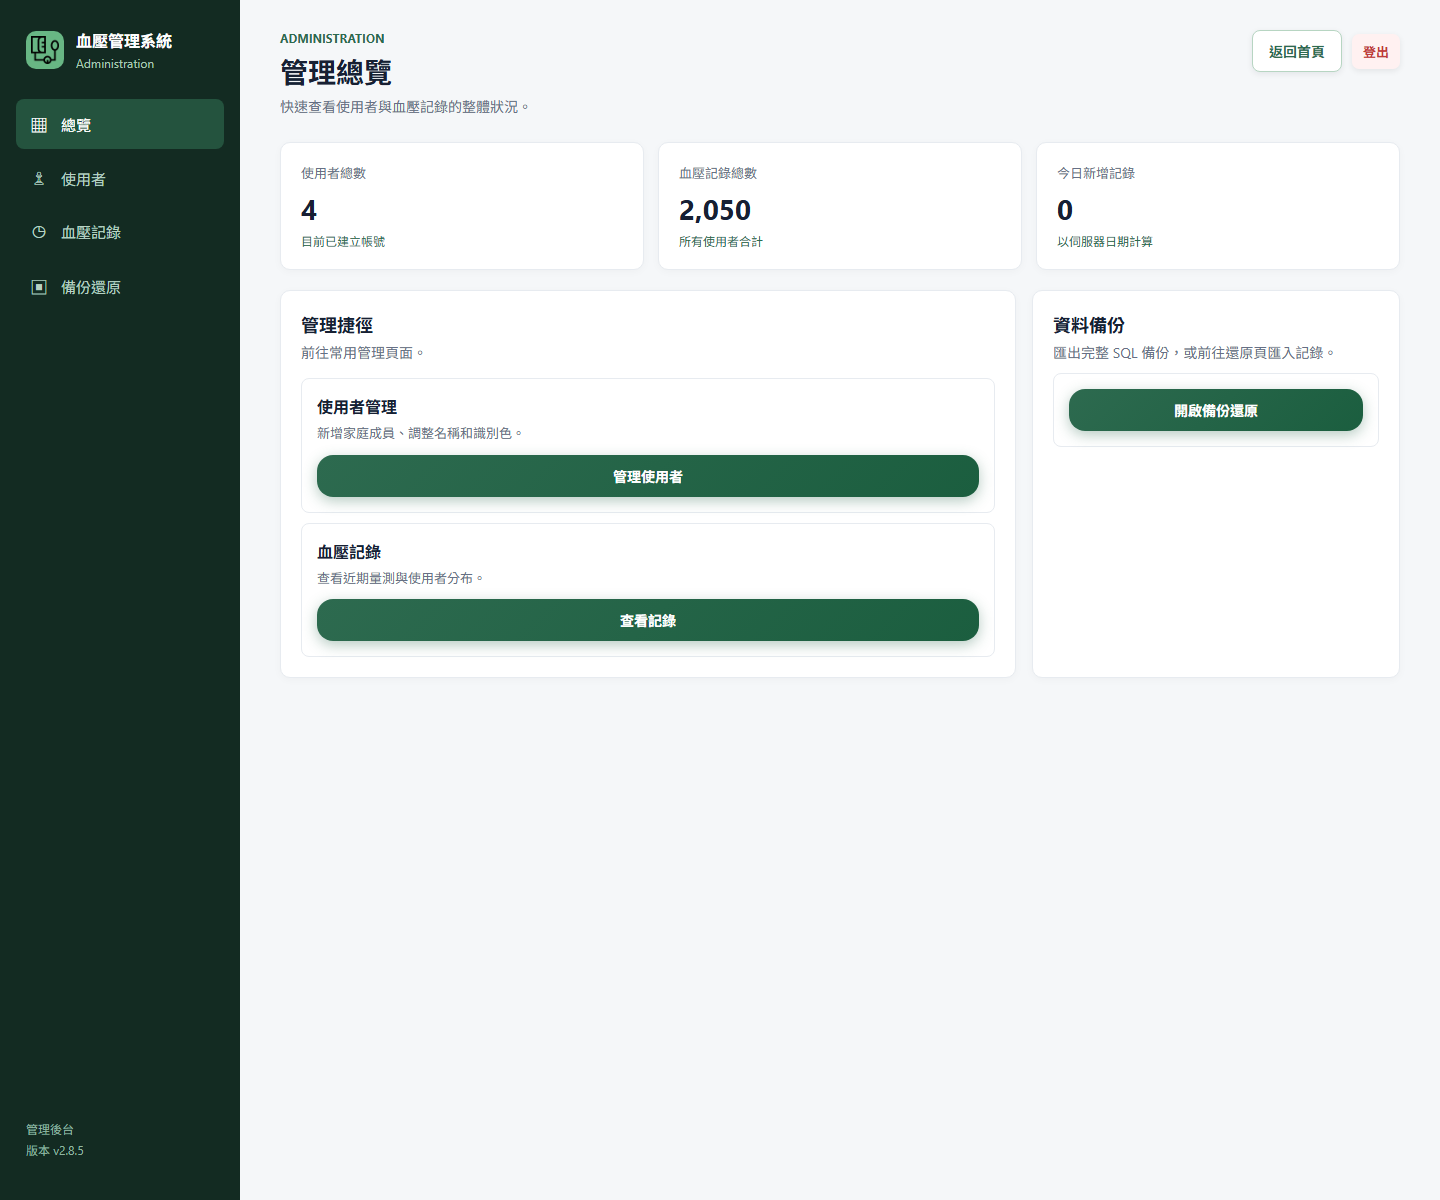
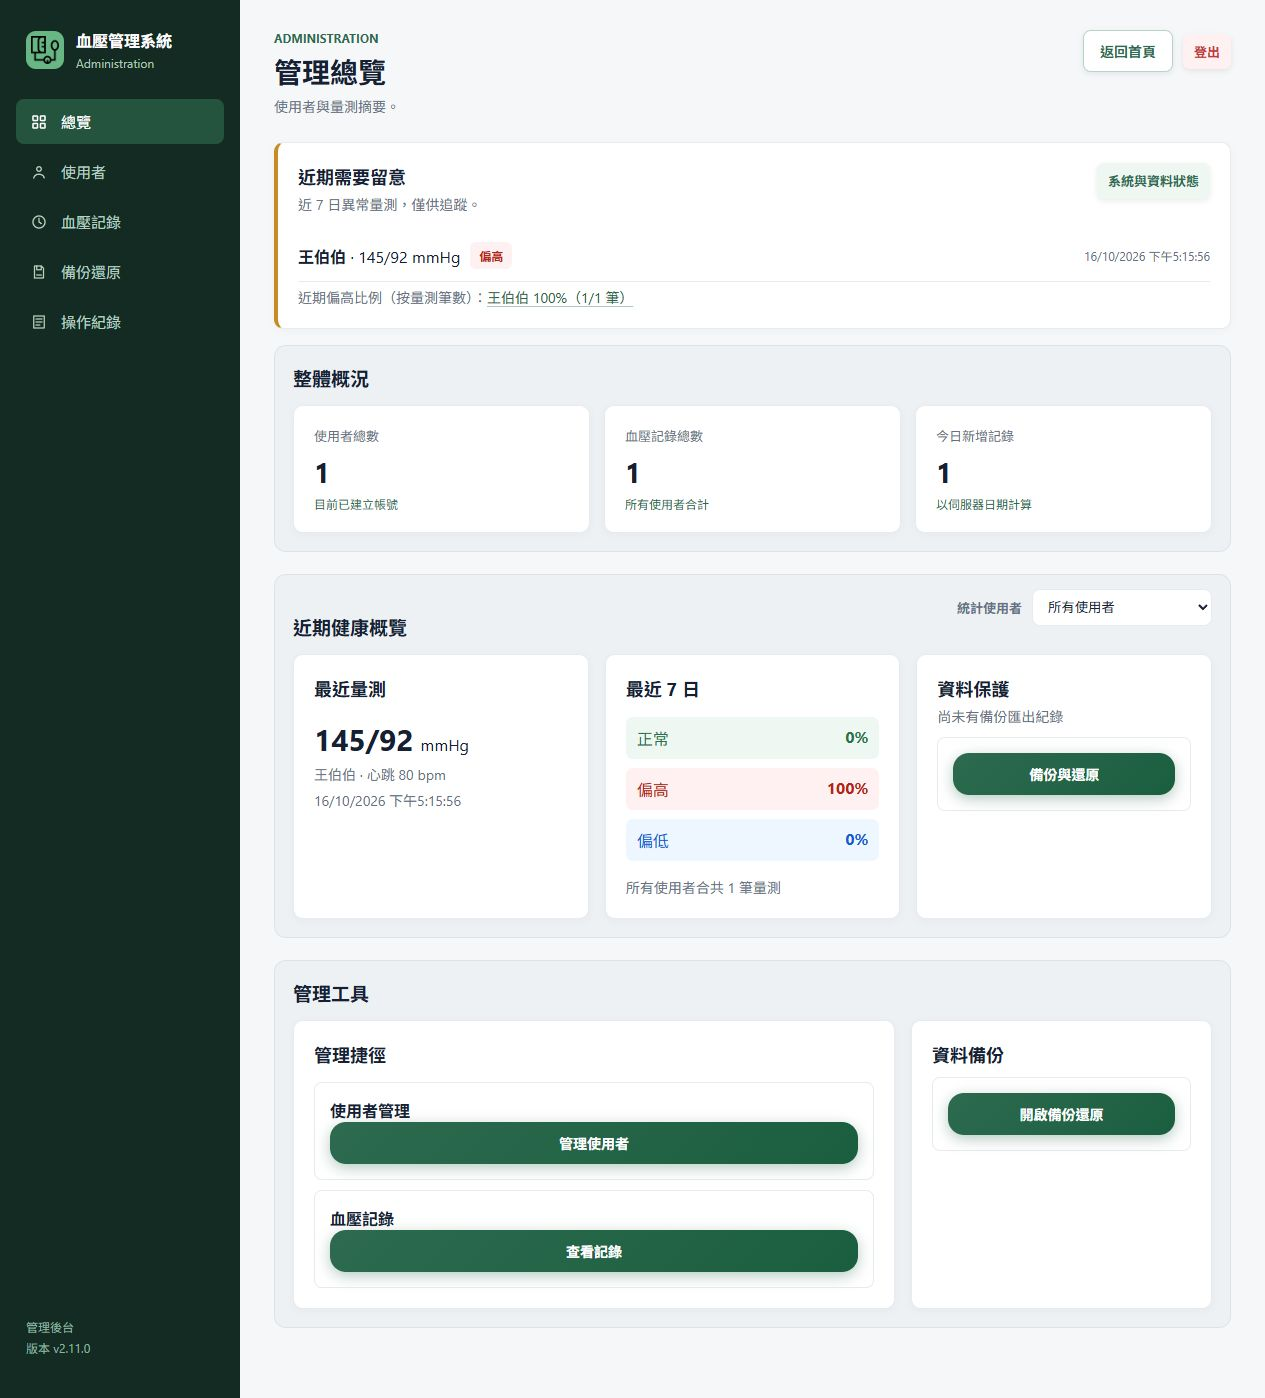
docs(readme): 更新 2.11.0 功能、升級指南與後台截圖

diff --git a/README.md b/README.md
@@ -18,6 +18,7 @@
 - [畫面截圖](#畫面截圖)
 - [既有資料庫升級](#既有資料庫升級)
 - [本機開發](#本機開發)
+- [CI/CD](#cicd)
 - [版本紀錄](#版本紀錄)
 
 ## 功能特色
@@ -28,14 +29,15 @@
 - **趨勢與健康摘要**：統計收縮壓、舒張壓與心跳變化，圖表支援放大檢視。
 - **清晰的血壓分級**：以綠、藍、紅色區分正常、低血壓及高血壓。
 - **匯出與備份**：支援 Excel 匯出，以及附 SHA-256 checksum 的版本化 JSON 備份。
-- **管理後台**：管理使用者與記錄、進階篩選、近期統計及系統狀態。
+- **管理後台**：記錄編輯、批次刪除預覽、操作稽核、近期警示與手機卡片。
+- **自動資料庫升級**：啟動時檢查 migration，僅套用未完成項目。
 - **PWA 與 Docker**：可安裝至手機主畫面，並支援 GHCR image、Docker Compose 及外部 MariaDB。
 
 ## 快速開始
 
 ### Docker（推薦）
 
-先準備可連線的 MariaDB 資料庫，並匯入 [mariadb/init.sql](mariadb/init.sql)。接著建立 <code>compose.yml</code>：
+首次安裝：建立 MariaDB 資料庫，匯入 [mariadb/init.sql](mariadb/init.sql)，再建立 <code>compose.yml</code>。資料庫帳號須具備正常讀寫及 `CREATE`、`ALTER`、`INDEX`、`REFERENCES` 權限，供啟動時升級使用。
 
 ~~~yaml
 services:
@@ -104,41 +106,41 @@ Production 環境亦必須提供 <code>DB_HOST</code>、<code>DB_USER</code>、<
 
 ## 管理後台與備份
 
-管理後台位於 <code>/admin</code>，登入後可：
+登入 `/admin` 後可使用：
 
-- 管理使用者及血壓記錄。
-- 依使用者、日期及血壓條件篩選記錄。
-- 以串流方式匯出 CSV，每次最多 10,000 筆。
-- 查看以伺服器日期計算的今日記錄與指定使用者最近 7 日統計。
-- 下載 JSON 或舊版 SQL 備份。
-- 預覽 JSON 匯入結果，再以資料庫交易寫入。
-
-JSON 是目前建議的備份格式，檔案包含格式版本與 SHA-256 checksum。匯入時會先顯示有效、略過及總筆數，確認後才寫入資料庫。
-
-### 新版管理功能（2.11.0）
-
-- 記錄篩選由伺服器統一處理；提供今天、最近 7／30 日及本月快捷範圍，匯出沿用目前條件。
-- 記錄支援單筆編輯、單筆刪除與本頁批次刪除（最多 100 筆）；編輯／刪除須填寫原因。編輯會檢查畫面資料是否已被其他操作修改。
-- 總覽列出近期偏高／偏低記錄及超過 7 日未量測的使用者，可直接前往記錄頁。
-- `/admin/activity` 提供操作紀錄、資料完整性檢查及最近 10 次備份匯出紀錄。資料變更與成功稽核在同一交易內完成，失敗時一起回復；失敗稽核若因資料庫不可用而無法保存，會記錄至伺服器日誌。
-- 稽核內容包含修改前後資料、刪除資料及原因，僅管理員可見。其用途是追蹤操作，並非介面上的垃圾桶／復原功能。JSON 備份只包含使用者與量測資料，不包含稽核或備份歷史；這些歷史須以資料庫備份保存。
-- 備份紀錄代表伺服器已產生匯出，不保證用戶端已完成下載或保存。SHA-256 checksum 用於檢查檔案內容一致性，不是來源簽章。
-
-JSON 還原提供兩種模式：
-
-| 模式 | 使用者與記錄處理 |
+| 頁面 | 功能 |
 | --- | --- |
-| 完整還原 | 依完全相同的姓名對應現有帳號，缺少者新增；不使用來源 ID 覆寫現有帳號。若目的資料庫有重複姓名，會拒絕曖昧對應。請在預覽中確認同名者確為同一人。 |
-| 匯入至指定使用者 | 備份內所有有效記錄都歸入選定帳號，來源使用者歸屬不保留。 |
+| 總覽 | 今日／近 7 日統計、異常量測、未量測提醒 |
+| 使用者 | 搜尋、新增、編輯姓名與識別色、刪除 |
+| 血壓記錄 | 條件篩選、日期快捷、排序、單筆編輯／刪除、批次刪除預覽 |
+| 備份還原 | JSON 備份、使用者對應預覽、重複資料略過、舊版 SQL 下載 |
+| 操作紀錄 | 修改前後資料、操作原因、備份歷史、資料品質與外部備份回報 |
 
-兩種模式皆保留現有資料，略過同使用者、同秒量測時間、相同血壓與心跳的記錄。預覽顯示新增、無效與重複筆數及使用者對應；確認時會重新檢查，結果可能因其他操作而改變。單檔上限 5 MB、5000 筆記錄、1000 位使用者；較大的 JSON 匯出檔請改用資料庫備份工具還原，勿直接編輯含 checksum 的檔案。SQL 下載僅作舊版工具相容，建議使用 JSON 流程。
+記錄編輯／刪除須填寫原因；批次刪除限本頁最多 100 筆，先核對明細，若確認時資料已變更則拒絕操作。篩選、分頁與 CSV 匯出使用相同條件，CSV 每次最多 10,000 筆。
+
+### JSON 備份與還原
+
+| 模式 | 處理方式 |
+| --- | --- |
+| 完整還原 | 完全同名帳號對應現有使用者，缺少者新增。請核對同名者是否為同一人；目的資料庫有重複姓名時拒絕還原。 |
+| 匯入至單一使用者 | 所有有效記錄歸入指定帳號，不保留原使用者歸屬。 |
+
+- 保留現有資料，略過使用者、量測時間（同秒）、血壓與心跳皆相同的記錄。
+- 單檔最多 5 MB、5000 筆記錄、1000 位使用者；較大資料請用資料庫備份工具還原。
+- SHA-256 checksum 檢查內容一致性，不代表來源可信；請勿直接修改備份檔案。
+- JSON 只包含使用者及量測資料；稽核與備份歷史須另以資料庫備份保存。
+- 匯出紀錄不代表檔案已下載保存；刪除沒有介面復原功能。
+
+### 外部資料庫備份
+
+在操作紀錄頁登記來源、完成時間、結果、檔案識別、選填 checksum 與備註。成功須有檔案或工作識別，失敗須有原因。這是管理員人工回報，不會執行外部備份或驗證可還原性；未回報時顯示狀態未知。
 
 ### 部署安全建議
 
 - 使用 HTTPS reverse proxy 提供外部存取。
 - 不要直接將應用程式的 <code>3000</code> port 暴露至公網。
 - 定期備份資料庫或下載 JSON 備份。
-- Session cookie 使用 <code>HttpOnly</code> 與 <code>SameSite=Lax</code>；production 模式會加上 <code>Secure</code>。
+- Session cookie 使用 <code>HttpOnly</code> 與 <code>SameSite=Lax</code>；HTTPS 請求會加上 <code>Secure</code>。
 
 ## 健康檢查
 
@@ -164,6 +166,13 @@ JSON 還原提供兩種模式：
 | ![統計頁](images/stats.png) | ![管理後台](images/admin.png) |
 
 <details>
+<summary>備份還原（2.11.0，示範資料）</summary>
+
+![備份還原](images/admin-backup.png)
+
+</details>
+
+<details>
 <summary>管理員登入頁</summary>
 
 ![管理員登入頁](images/admin-login.png)
@@ -172,35 +181,33 @@ JSON 還原提供兩種模式：
 
 ## 既有資料庫升級
 
-本版本在 `npm start`／Docker 啟動時會自動檢查並依檔名順序執行 `mariadb/migration-NNN-*.sql`，完成後才開放 HTTP 服務。資料庫須已存在，首次安裝仍先匯入 `mariadb/init.sql`。
+**2.11.0 起自動升級，不必逐個手動匯入 migration。**
 
-- `schema_migrations` 記錄已完成檔案、SHA-256 checksum 與時間；重啟只執行尚未完成的項目。
-- 使用資料庫鎖避免多個服務同時升級，最多等待 30 秒，取不到鎖會停止啟動，可稍後重啟。
-- 舊版 001／002 會先檢查欄位、外鍵與索引，只補缺少結構，避免重複新增預設使用者或索引。如果既有量測沒有對應使用者，會停止並要求修正歸屬，不會自動刪除資料。已手動套用的 003／004 使用 `CREATE TABLE IF NOT EXISTS`，可安全納入歷史。
-- 應用程式的資料庫帳號須有建立資料表與修改結構權限（`CREATE`、`ALTER`、`INDEX`），以及正常讀寫權限。不要使用 root 作為正式應用程式帳號。
-- 已執行的 migration 檔案不可再修改或重新命名；後續變更請新增遞增編號，例如 `migration-005-example.sql`。檔案須可安全重試；一般 SQL 支援字串／註解內分號，不支援 `DELIMITER` 或程序／trigger 腳本。
-- MariaDB DDL 可能自動提交，升級失敗時不宣稱已回復；不記錄完成、不開放服務，修正問題後再重啟。更新前仍須備份並暫停其他舊版服務寫入。
-
-需要預先手動套用時，也可執行以下 SQL：
+1. 備份資料庫並停止舊服務寫入。
+2. 將 Compose 的 image 改為 `ghcr.io/shamough1792/blood_pressure_tracker:2.11.0`。
+3. 拉取並啟動新版：
 
 ~~~bash
-mysql -h <DB_HOST> -u <DB_USER> -p <DB_NAME> < mariadb/migration-003-admin-management.sql
-mysql -h <DB_HOST> -u <DB_USER> -p <DB_NAME> < mariadb/migration-004-database-backup-reports.sql
+docker compose pull
+docker compose up -d
+docker compose logs -f app
 ~~~
 
-新安裝的 `mariadb/init.sql` 已包含所需資料表。若需回復程式版本，可保留新增資料表，舊版不會使用它們。
+看到「資料庫升級檢查完成」後才會開放 HTTP 服務。從原始碼啟動的 `npm start` 亦會執行相同檢查。
 
-批次刪除會先向伺服器取得所選記錄的使用者、時間、血壓及心跳明細，確認時再次核對資料指紋；若記錄已變更則拒絕刪除，須重新預覽。手機卡片的編輯／刪除按鈕位於右上角，桌面量測時間欄提供排序連結與對應的 `aria-sort`。
+- 帳號需有讀寫、`CREATE`、`ALTER`、`INDEX`、`REFERENCES` 權限；不要以 root 執行正式服務。
+- 已手動套用的 003／004 可安全納入升級歷史。舊版 001／002 會檢查並補齊欄位、外鍵及索引。
+- 多個服務共用升級鎖，最多等候 30 秒；逾時可稍後重啟。
+- 升級失敗會停止啟動，請依日誌修正權限或資料歸屬。DDL 可能已部分提交，不保證自動回復。
 
-系統狀態頁另提供「外部資料庫備份狀態」及管理員回報表單，可登記備份來源、工作完成時間、成功／失敗、檔案或工作識別、選填 SHA-256 及備註。成功結果須有檔案或工作識別，失敗結果須有原因；會同時保存回報者與登記時間，分別顯示最近工作結果及最近成功時間。這是人工回報功能，不會執行外部備份、查驗外部檔案或證明可還原性；未回報時明示狀態未知，與 JSON／SQL 匯出紀錄分開。外部排程可由管理員查看其實際執行結果後登記，請勿填寫憑證。
+<details>
+<summary>開發者：新增 migration 與升級歷史</summary>
 
-升級前請先備份資料庫。從早於 <code>2.9.0</code> 的版本升級時，請確認已套用記錄查詢索引：
+將新 SQL 放在 `mariadb/migration-NNN-*.sql`，使用遞增編號，例如 `migration-005-example.sql`。啟動時依檔名排序執行，完成後在 `schema_migrations` 保存檔名、checksum 與時間。
 
-~~~bash
-mysql -h <DB_HOST> -u <DB_USER> -p <DB_NAME> < mariadb/migration-002-add-record-indexes.sql
-~~~
+已完成的檔案不可修改或重新命名，變更請新增 migration。SQL 須可安全重試；支援一般字串與註解內分號，不支援 `DELIMITER`、程序／trigger 腳本。既有記錄缺少對應使用者時會停止升級，不會刪除資料。
 
-若資料庫尚未加入多使用者結構，請先檢查並套用 [mariadb/migration-001-add-users.sql](mariadb/migration-001-add-users.sql)。
+</details>
 
 ## 本機開發
 
